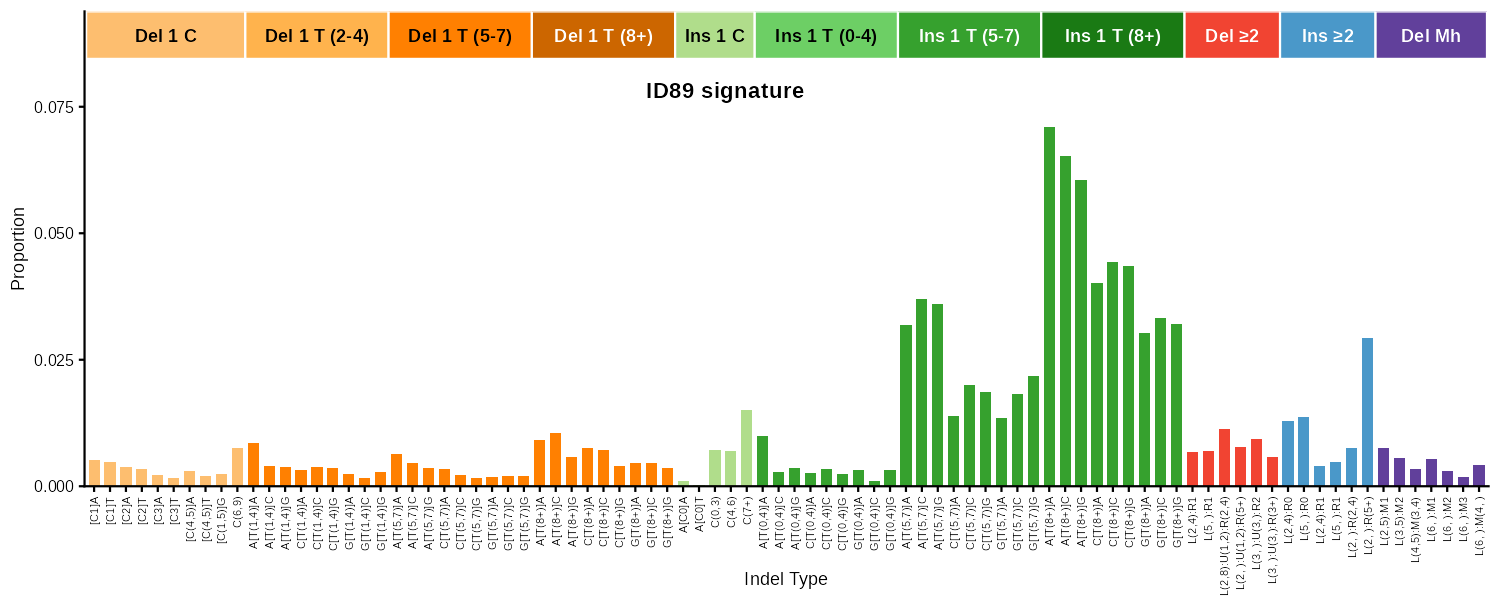
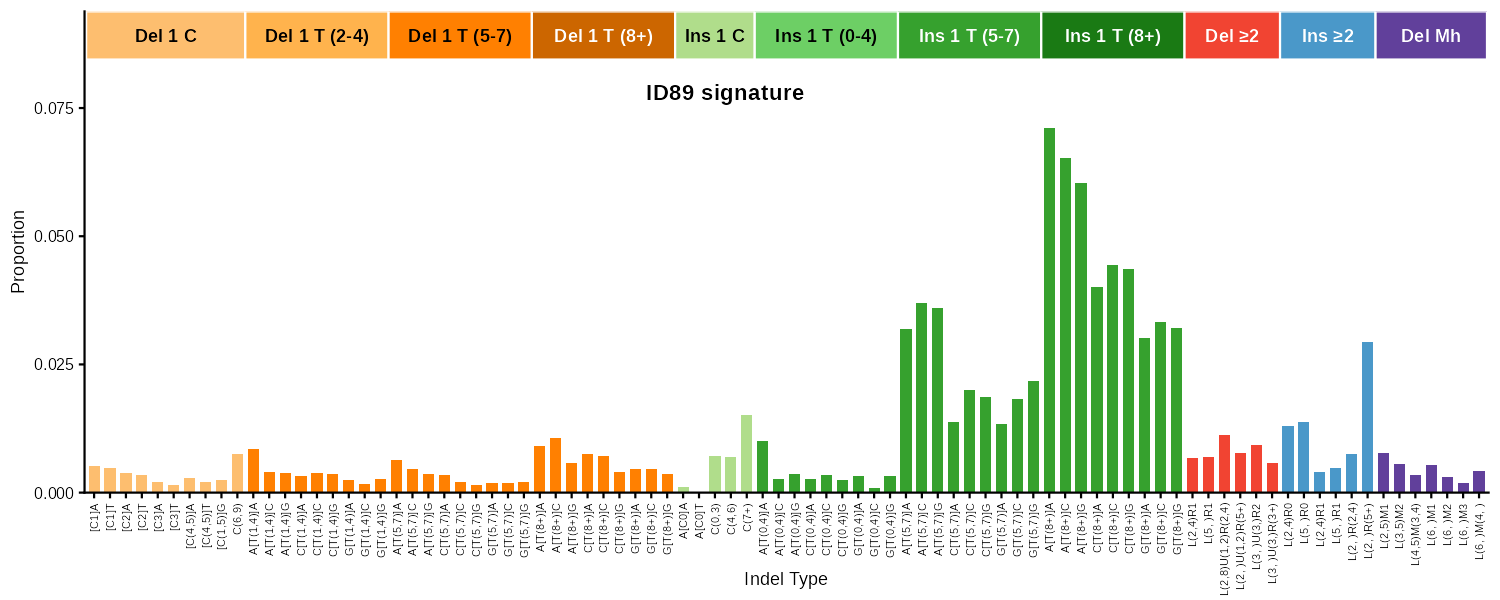
v2.0.35: extract and export id89_figlabels(); drop colons in multi-base ID89 labels
Move id89_figlabels() to its own file and export it. Multi-base ID89
figure labels no longer contain colons: e.g. Del(2,):R(5,) now renders
as "L(2, )R(5+)" instead of "L(2, ):R(5+)".

Re-blessed the plot_ID89 / plot_ID89_peaks regression hashes and visual
reference PNGs, and regenerated the README example_ID89.png.

diff --git a/NEWS.md b/NEWS.md
@@ -1,3 +1,13 @@
+# mSigPlot 2.0.35
+
+* Moved `id89_figlabels()` from `R/plot_ID89.R` to its own file
+  (`R/id89_figlabels.R`) and exported it.
+* Multi-base ID89 figure labels no longer contain colons
+  (e.g. `Del(2,):R(5,)` is now rendered as `L(2, )R(5+)` instead of
+  `L(2, ):R(5+)`). Re-blessed regression hashes and visual reference
+  PNGs for `plot_ID89` / `plot_ID89_peaks`, and regenerated the
+  README `example_ID89.png`.
+
 # mSigPlot 2.0.34
 
 * Removed the `stop_at_9` argument from `plot_ID89()`, `plot_ID476()`, and
